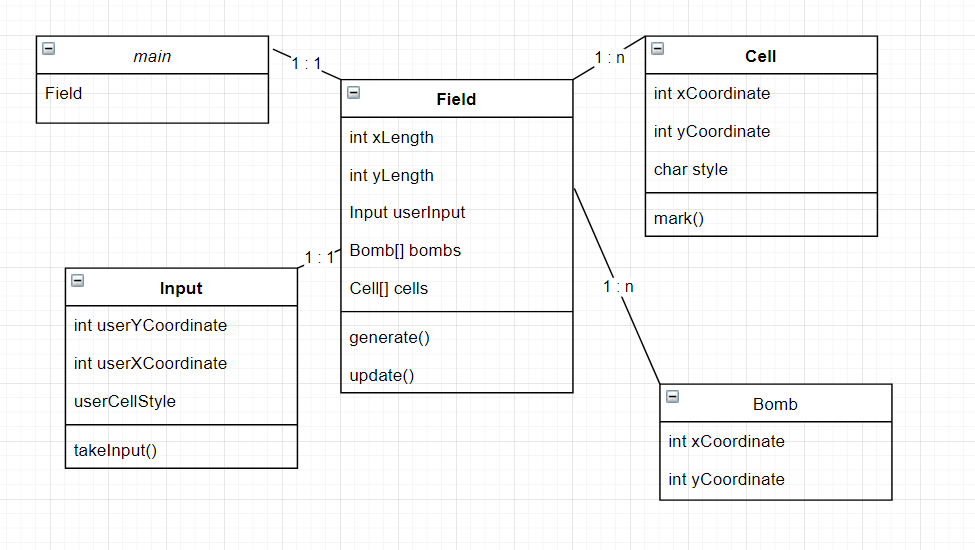
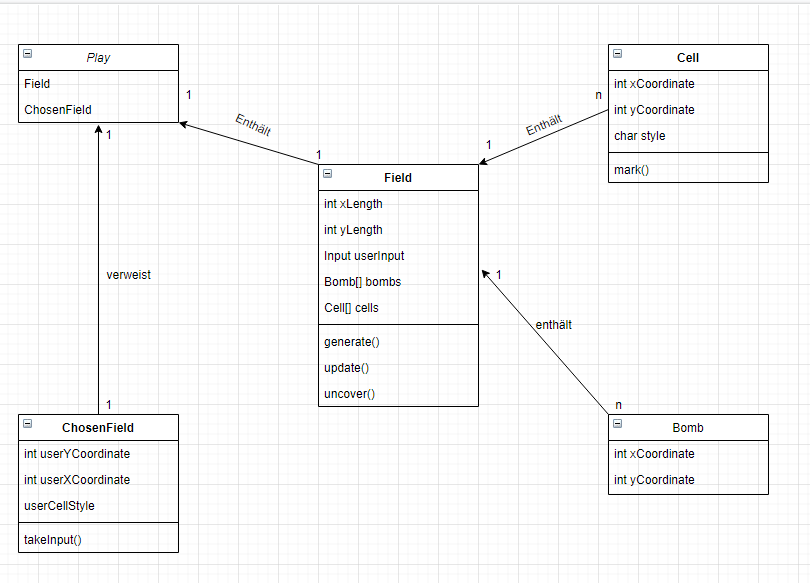
Ende 21.08.2020

diff --git a/src/main/java/mod226a/Minesweeper/UserInterface.java b/src/main/java/mod226a/Minesweeper/UserInterface.java
@@ -1,0 +1,30 @@
+package mod226a.Minesweeper;
+
+public class UserInterface {
+
+    public void commandHint() {
+        System.out.println("Geben Sie ein Kommando ein: ");
+        System.out.println("T x y (z.B. T 2 3 testet auf Feld Zeile 2, Spalte 3 auf Mine");
+        System.out.println("M x y (z.B. M 6 1 kehrt Markierung Feld Zeile 6, Spalte 1");
+    }
+
+    public void outputPlayerInput(ChosenField chosenField) {
+        System.out.println(chosenField.userCellStyle +
+                chosenField.xUserCoordinate + chosenField.yUserCoordinate);
+    }
+
+    public void showField(Cell[][] cells) {
+        for (int i = 0; i < 9; i++) {
+            if (i == 0)
+                System.out.print("  0 1 2 3 4 5 6 7");
+            else {
+                System.out.print((i - 1) + " ");
+                for (int k = 0; k < cells.length; k++) {
+                    System.out.print(cells[i - 1][k].style + " ");
+                }
+            }
+
+            System.out.print("\n");
+        }
+    }
+}

diff --git a/src/main/java/mod226a/Minesweeper/Field.java b/src/main/java/mod226a/Minesweeper/Field.java
@@ -1,9 +1,27 @@
 package mod226a.Minesweeper;
 
+
 public class Field {
 
-    int xLength;
-    int yLength;
+    RandomCoordinates ranCoords = new RandomCoordinates();
+
+    public void generate(Cell[][] cells, Bomb[] bombs) {
+        for (int x = 0; x < cells.length; x++) {
+            for (int y = 0; y < cells.length; y++) {
+                for (Bomb bomb : bombs) {
+                    if (x == bomb.xCoordinate && y == bomb.yCoordinate) {
+                        cells[x][y] = new Cell(x, y, "*");
+                        break;
+                    } else cells[x][y] = new Cell(x, y, "0");
+                }
+            }
+        }
+    }
 
 
+    public void createBombs(Bomb[] bombs) {
+        for (int i = 0; i < bombs.length; i++) {
+            bombs[i] = new Bomb(ranCoords.randomX(), ranCoords.randomY());
+        }
+    }
 }

diff --git a/src/main/java/mod226a/Minesweeper/ChosenField.java b/src/main/java/mod226a/Minesweeper/ChosenField.java
@@ -1,0 +1,30 @@
+package mod226a.Minesweeper;
+
+import java.util.Scanner;
+
+public class ChosenField {
+
+    Scanner input = new Scanner(System.in);
+
+    int xUserCoordinate;
+    int yUserCoordinate;
+    String userCellStyle;
+
+    public void takeInput() {
+        boolean incorrect = true;
+        do {
+            try {
+                userCellStyle = input.next();
+                if (userCellStyle.length() == 1) {
+                    xUserCoordinate = input.nextInt();
+                    yUserCoordinate = input.nextInt();
+                    incorrect = false;
+                }
+                else System.out.println("Falsche Eingabe");
+            } catch (Exception e) {
+                System.out.println("Falsch eingegeben!");
+                incorrect = true;
+            }
+        } while (incorrect);
+    }
+}

diff --git a/src/main/java/mod226a/Minesweeper/Play.java b/src/main/java/mod226a/Minesweeper/Play.java
@@ -1,4 +1,20 @@
 package mod226a.Minesweeper;
 
 public class Play {
+
+    UserInterface userInterface = new UserInterface();
+    ChosenField chosenField = new ChosenField();
+    Field field = new Field();
+    Cell[][] cells = new Cell[8][8];
+    Bomb[] bombs = new Bomb[5];
+
+    public void start(){
+        userInterface.commandHint();
+        chosenField.takeInput();
+        userInterface.outputPlayerInput(chosenField);
+        field.createBombs(bombs);
+        field.generate(cells,bombs);
+        userInterface.showField(cells);
+    }
+
 }

diff --git a/src/main/java/mod226a/Minesweeper/Cell.java b/src/main/java/mod226a/Minesweeper/Cell.java
@@ -1,4 +1,28 @@
 package mod226a.Minesweeper;
 
 public class Cell {
+
+    int xCoordinate;
+    int yCoordinate;
+
+    int bombsInArea;
+
+    boolean marked = false;
+
+    String style;
+
+    public Cell(int xCoordinate, int yCoordinate, String style){
+        this.xCoordinate = xCoordinate;
+        this.yCoordinate = yCoordinate;
+        this.style = style;
+    }
+
+    public void mark(int xCoordinate, int yCoordinate){
+
+    }
+
+    public void uncover(int xCoordinate, int yCoordinate, String style){
+
+    }
+
 }

diff --git a/src/main/java/mod226a/Minesweeper/RandomCoordinates.java b/src/main/java/mod226a/Minesweeper/RandomCoordinates.java
@@ -1,0 +1,17 @@
+package mod226a.Minesweeper;
+
+import java.util.Random;
+
+public class RandomCoordinates {
+
+    Random rand = new Random();
+
+    public int randomX(){
+        return rand.nextInt(8);
+    }
+
+    public int randomY(){
+        return rand.nextInt(8);
+    }
+
+}

diff --git a/src/main/java/mod226a/Minesweeper/Bomb.java b/src/main/java/mod226a/Minesweeper/Bomb.java
@@ -1,4 +1,13 @@
 package mod226a.Minesweeper;
 
 public class Bomb {
+
+    int xCoordinate;
+    int yCoordinate;
+
+    public Bomb(int xCoordinate, int yCoordinate){
+        this.xCoordinate = xCoordinate;
+        this.yCoordinate = yCoordinate;
+    }
+
 }

diff --git a/src/main/java/mod226a/Minesweeper/MineSweeper.java b/src/main/java/mod226a/Minesweeper/MineSweeper.java
@@ -13,8 +13,10 @@ package mod226a.Minesweeper;
 
 public class MineSweeper {
 
-    public static void main(String[] args) {
+    static Play play = new Play();
 
+    public static void main(String[] args) {
+        play.start();
     }
 
 }
